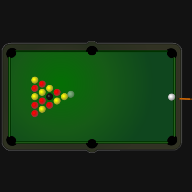
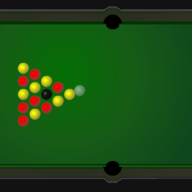
billiard,rubik,sudoku,chess

diff --git a/examples/rubik3/index.html b/examples/rubik3/index.html
@@ -8,17 +8,17 @@
 <meta property="og:image" content="https://foo123.github.io/thumbs/rubik3.jpg">
 <meta property="og:url" content="https://foo123.github.io/examples/rubik3/">
 <meta name="twitter:card" content="summary">
-<link rel="apple-touch-icon" sizes="180x180" href="./apple-touch-icon.png?v=1">
-<link rel="icon" type="image/png" sizes="32x32" href="./favicon-32x32.png?v=1">
-<link rel="icon" type="image/png" sizes="192x192" href="./android-chrome-192x192.png?v=1">
-<link rel="icon" type="image/png" sizes="16x16" href="./favicon-16x16.png?v=1">
-<link rel="manifest" href="./manifest.json?v=1r2">
-<link rel="mask-icon" href="./safari-pinned-tab.svg?v=1" color="#323232">
-<link rel="shortcut icon" href="./favicon.ico?v=1">
+<link rel="apple-touch-icon" sizes="180x180" href="./apple-touch-icon.png?v=1.0.0">
+<link rel="icon" type="image/png" sizes="32x32" href="./favicon-32x32.png?v=1.0.0">
+<link rel="icon" type="image/png" sizes="192x192" href="./android-chrome-192x192.png?v=1.0.0">
+<link rel="icon" type="image/png" sizes="16x16" href="./favicon-16x16.png?v=1.0.0">
+<link rel="manifest" href="./manifest.json?v=1.0.0r3">
+<link rel="mask-icon" href="./safari-pinned-tab.svg?v=1.0.0" color="#323232">
+<link rel="shortcut icon" href="./favicon.ico?v=1.0.0">
 <meta name="apple-mobile-web-app-title" content="Rubik3">
 <meta name="application-name" content="Rubik3">
 <meta name="msapplication-TileColor" content="#323232">
-<meta name="msapplication-config" content="./browserconfig.xml?v=1">
+<meta name="msapplication-config" content="./browserconfig.xml?v=1.0.0">
 <meta name="theme-color" content="#323232">
 <!--<link rel="stylesheet" type="text/css" href="./common/css/common.min.css" />-->
 <style type="text/css">

diff --git a/examples/billiard.js/index.html b/examples/billiard.js/index.html
@@ -14,7 +14,10 @@
 <link rel="apple-touch-icon" sizes="180x180" href="./apple-touch-icon.png?v=1.0.0" />
 <meta name="apple-mobile-web-app-title" content="Billiard">
 <meta name="application-name" content="Billiard">
-<link rel="manifest" href="./manifest.json?v=1.0.0r2" />
+<link rel="manifest" href="./manifest.json?v=1.0.0r3" />
+<meta name="msapplication-TileColor" content="#121212">
+<meta name="msapplication-config" content="./browserconfig.xml?v=1.0.0">
+<meta name="theme-color" content="#121212">
 <style type="text/css">
 body {
     position: relative;

diff --git a/examples/chess-play/index.html b/examples/chess-play/index.html
@@ -11,12 +11,13 @@
 <link rel="apple-touch-icon" sizes="180x180" href="./apple-touch-icon.png?v=0.11.0">
 <link rel="icon" type="image/png" sizes="32x32" href="./favicon-32x32.png?v=0.11.0">
 <link rel="icon" type="image/png" sizes="16x16" href="./favicon-16x16.png?v=0.11.0">
-<link rel="manifest" href="./manifest.json?v=0.11.0r2">
+<link rel="manifest" href="./manifest.json?v=0.11.0r3">
 <link rel="mask-icon" href="./safari-pinned-tab.svg?v=0.11.0" color="#454545">
 <link rel="shortcut icon" href="./favicon.ico?v=0.11.0">
 <meta name="apple-mobile-web-app-title" content="Chess">
 <meta name="application-name" content="Chess">
 <meta name="msapplication-TileColor" content="#454545">
+<meta name="msapplication-config" content="./browserconfig.xml?v=0.11.0">
 <meta name="theme-color" content="#454545">
 <style type="text/css">
 body {

diff --git a/examples/sudoku/index.html b/examples/sudoku/index.html
@@ -12,7 +12,7 @@
 <link rel="icon" type="image/png" sizes="32x32" href="./favicon-32x32.png?v=1.0.0">
 <link rel="icon" type="image/png" sizes="192x192" href="./android-chrome-192x192.png?v=1.0.0">
 <link rel="icon" type="image/png" sizes="16x16" href="./favicon-16x16.png?v=1.0.0">
-<link rel="manifest" href="./manifest.json?v=1.0.0r2">
+<link rel="manifest" href="./manifest.json?v=1.0.0r3">
 <link rel="mask-icon" href="./safari-pinned-tab.svg?v=1.0.0" color="#454545">
 <link rel="shortcut icon" href="./favicon.ico?v=1.0.0">
 <meta name="apple-mobile-web-app-title" content="Sudoku">